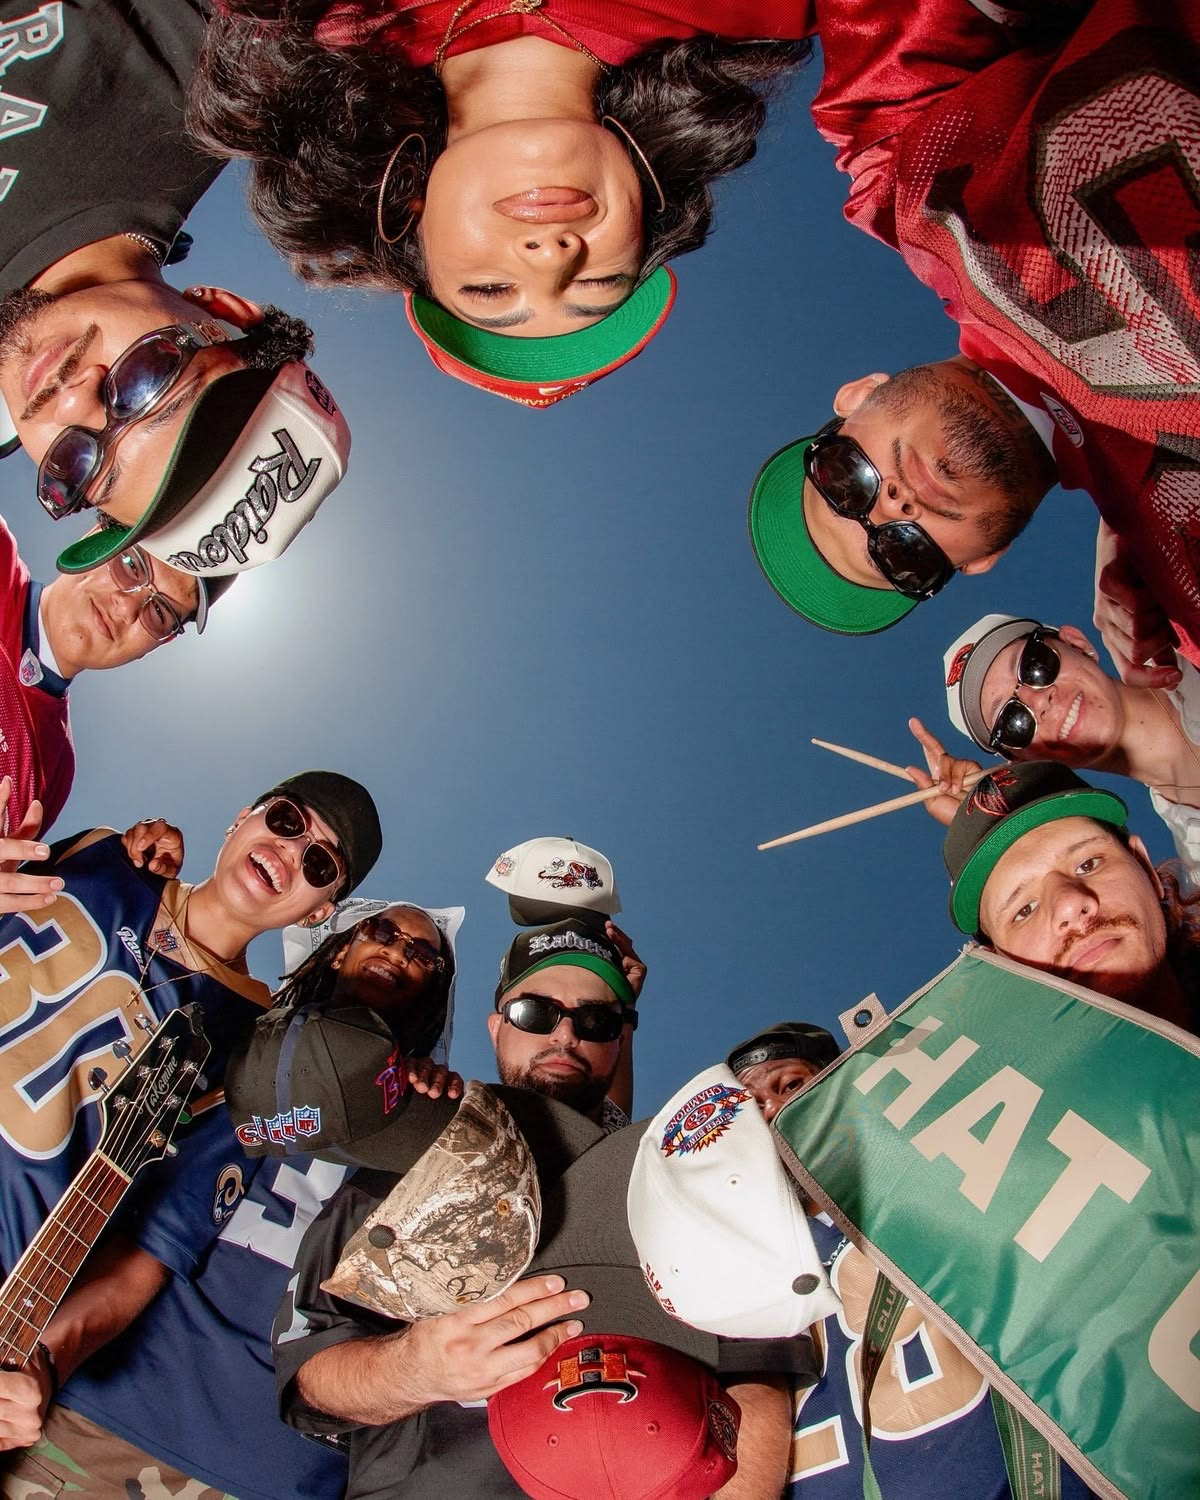
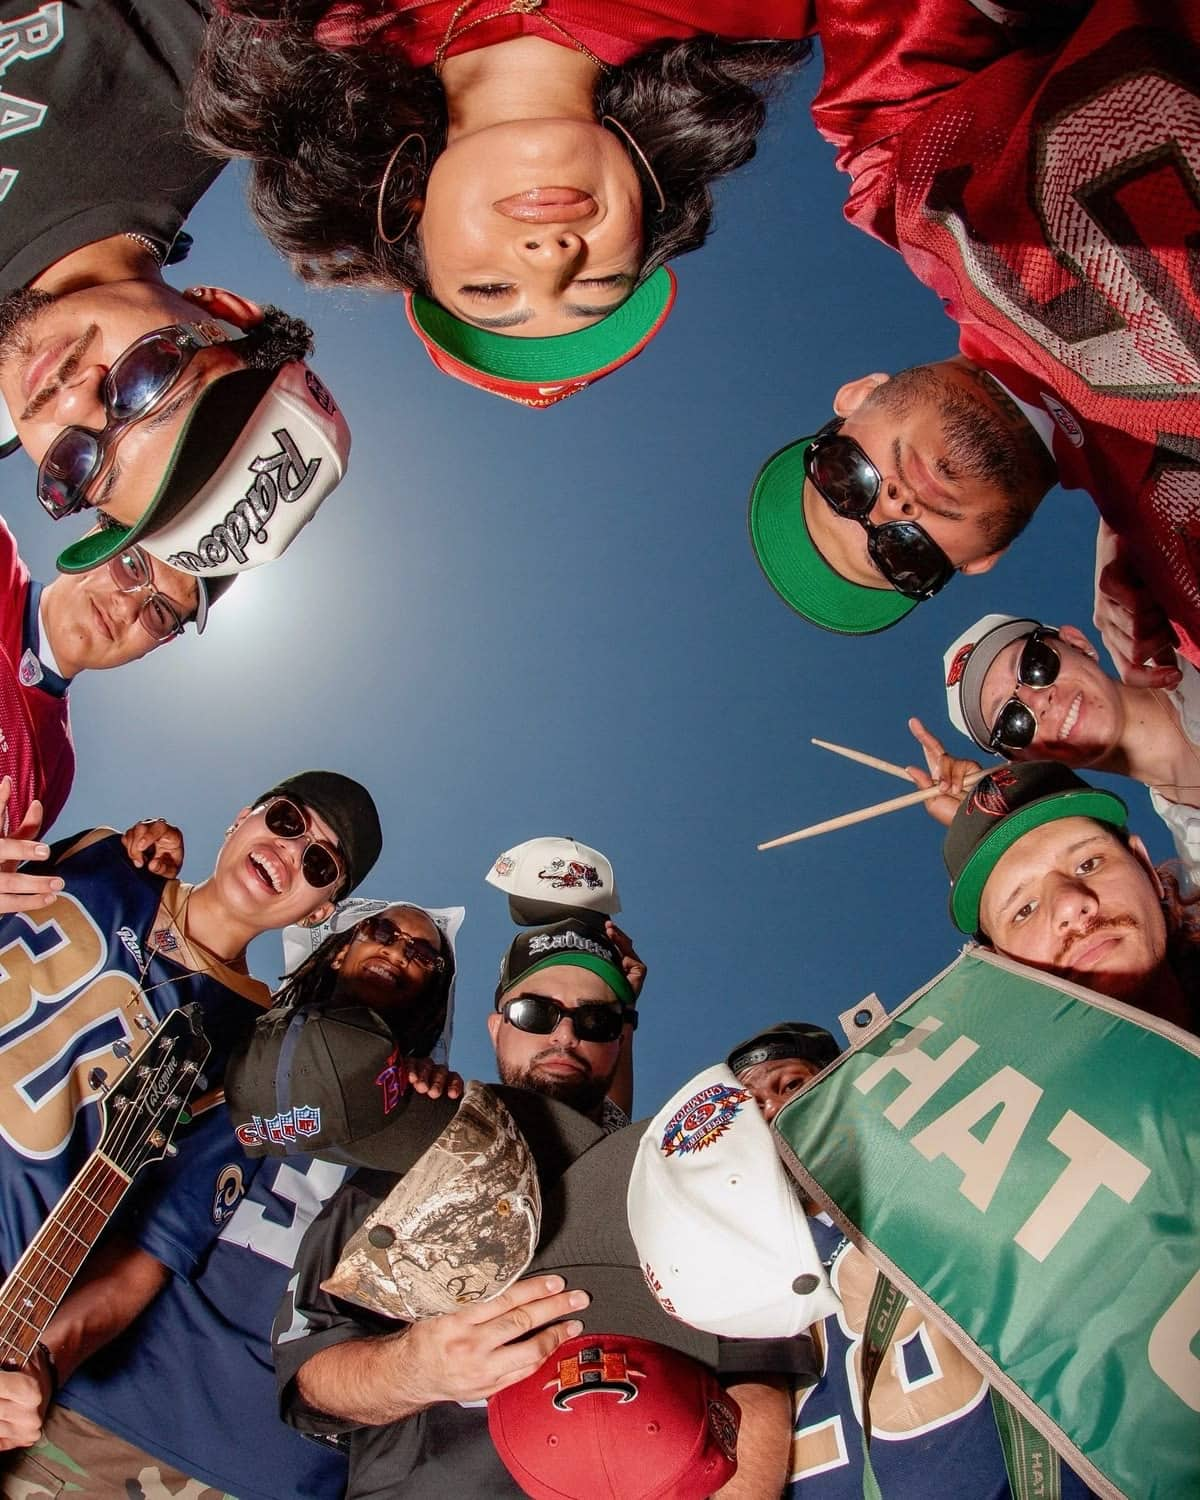
Major mobile perf: 600px frames, lazy UGC videos, font preload, smaller community.jpg
- frames-mobile/: 100 frames at 600×600px (190KB for 25 mobile frames vs 650KB) — 70% savings
- Section04: mobile loads from /frames-mobile/ (v=11 cache bust)
- Section03 UGC: IntersectionObserver lazy-loads video src — prevents 37MB of video on page open
- community.jpg: 468KB → 193KB (mozjpeg progressive, 58% savings)
- layout.tsx: preload DrukWide + Ekstra fonts — no FOUT on loading screen animation

Changed region(s): [[0.0308, 0.7667, 0.0925, 0.8587], [0.555, 0.736, 0.6167, 0.7667], [0.0, 0.8587, 0.0308, 0.8893]]

diff --git a/components/sections/Section03_UGC.tsx b/components/sections/Section03_UGC.tsx
@@ -23,9 +23,28 @@ const fadeUpSlow = {
 function PolaroidVideo({ src, rotate, zIndex, delay, width }: {
   src: string; rotate: number; zIndex: number; delay: number; width: string
 }) {
-  const noMotion = useReducedMotion()
+  const noMotion  = useReducedMotion()
+  const videoRef  = useRef<HTMLVideoElement>(null)
+  const wrapRef   = useRef<HTMLDivElement>(null)
+
+  // Lazy-load video src only when near viewport — prevents 37MB autoloading on page open
+  useEffect(() => {
+    const video = videoRef.current
+    const wrap  = wrapRef.current
+    if (!video || !wrap) return
+    const obs = new IntersectionObserver(([e]) => {
+      if (!e.isIntersecting) return
+      video.src = src
+      video.load()
+      obs.disconnect()
+    }, { rootMargin: "400px" })
+    obs.observe(wrap)
+    return () => obs.disconnect()
+  }, [src])
+
   return (
     <motion.div
+      ref={wrapRef}
       initial={noMotion ? false : { opacity: 0, y: 80, rotate: rotate - 8, scale: 0.92 }}
       whileInView={{ opacity: 1, y: 0, rotate, scale: 1 }}
       viewport={{ once: true, margin: "-60px" }}
@@ -41,7 +60,7 @@ function PolaroidVideo({ src, rotate, zIndex, delay, width }: {
         cursor: "default",
       }}
     >
-      <video src={src} autoPlay muted loop playsInline
+      <video ref={videoRef} autoPlay muted loop playsInline preload="none"
         style={{ display: "block", width: "100%", aspectRatio: "9/16", objectFit: "cover", borderRadius: 2 }} />
     </motion.div>
   )

diff --git a/app/layout.tsx b/app/layout.tsx
@@ -44,6 +44,11 @@ export default function RootLayout({
       lang="de"
       className={`${syne.variable} ${spaceGrotesk.variable} ${spaceMono.variable}`}
     >
+      <head>
+        {/* Preload fonts used in loading screen to prevent FOUT on animation */}
+        <link rel="preload" as="font" href="/fonts/drinksom/DrukWide-Heavy.woff2" crossOrigin="anonymous" type="font/woff2" />
+        <link rel="preload" as="font" href="/fonts/Ekstra-Regular.otf" crossOrigin="anonymous" type="font/otf" />
+      </head>
       <body>
         <PreLoader />
         <LoadingScreen />

diff --git a/components/sections/Section04_Features.tsx b/components/sections/Section04_Features.tsx
@@ -242,10 +242,11 @@ function FrameScrubber({
     const section = sectionRef.current
     if (!section) return
 
+    const dir = isMobile ? "frames-mobile" : "frames"
     const loadRange = (start: number, end: number, step: number) => {
       for (let i = start; i < end; i += step) {
         if (!imgsRef.current[i].src)
-          imgsRef.current[i].src = `/frames/frame_${String(i).padStart(3, "0")}.webp?v=10`
+          imgsRef.current[i].src = `/${dir}/frame_${String(i).padStart(3, "0")}.webp?v=11`
       }
     }
 
